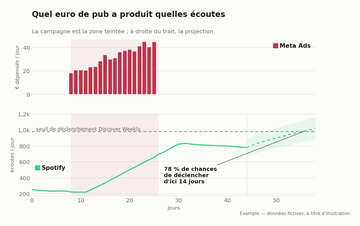
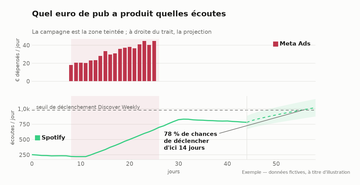
R374 : mise en route — figures d'exemple génériques (vue d'ensemble + deux promesses de même hauteur), la même prédiction dans l'aperçu algo
V11 · V12 · V55 : un seul module (utils/example_figures.py) rend les PNG fictifs étiquetés
« Exemple » ; la figure Meta régénérée à la hauteur de la prédiction (655 contre 654 px).
Gardes : 3 images étiquetées sur un locataire vide, l'aperçu algo rend la même image,
rapport hauteur/largeur des deux promesses — mutés rouges (légende retirée, autre figure).

diff --git a/tests/test_the_welcome_figures_are_examples.py b/tests/test_the_welcome_figures_are_examples.py
@@ -1,0 +1,95 @@
+"""The welcome block's figures are generic examples, and the algo preview shows the same one (R374).
+
+Type: Guard
+Uses: src.dashboard.utils.example_figures, tests/render_harness.py (TENANT_SCRIPT)
+Depends on: live Postgres for the render tests (skipped without it)
+Persists in: a throwaway sandbox tenant, deleted after the module
+
+V11 · V12 · V55 (owner's screen review, 2026-10-05). R347 had removed the figures from
+« 1. streaMLytics en bref » because the first was drawn from the tenant's data. They come
+back GENERIC: an overview, then the two promises (algo prediction, campaign) side by side,
+same size, in that order — every one labelled « Exemple ». The algo preview, which had no
+chart, shows the SAME prediction figure rather than a second illustration.
+"""
+from __future__ import annotations
+
+import ast
+import os
+import uuid
+from pathlib import Path
+
+import pytest
+
+from tests.db_gate import db_ready
+from tests.render_harness import TENANT_SCRIPT
+
+_ROOT = Path(__file__).resolve().parents[1]
+_ONB = _ROOT / "src" / "dashboard" / "views" / "onboarding.py"
+
+
+def test_the_two_promises_are_generated_at_the_same_height() -> None:
+    from PIL import Image
+
+    from src.dashboard.utils.example_figures import EXAMPLES_DIR, PROMISES
+
+    ratios = [h / w for w, h in (Image.open(EXAMPLES_DIR / n).size for n in PROMISES)]
+    assert abs(ratios[0] - ratios[1]) < 0.01, (
+        f"the two promise figures sit side by side at different heights: {ratios} — "
+        "regenerate with `make example-charts`")
+
+
+def test_the_welcome_step_reads_no_tenant_series() -> None:
+    """A figure drawn from the tenant's data is what R347 removed; it must not return."""
+    names = {n.id for n in ast.walk(ast.parse(_ONB.read_text(encoding="utf-8")))
+             if isinstance(n, ast.Name)}
+    names |= {n.attr for n in ast.walk(ast.parse(_ONB.read_text(encoding="utf-8")))
+              if isinstance(n, ast.Attribute)}
+    back = names & {"render_platform_chart", "_tenant_series", "plotly_chart"}
+    assert not back, f"onboarding draws tenant data again: {back}"
+
+
+@pytest.fixture(scope="module")
+def empty_tenant():
+    from src.dashboard.utils import get_db_connection
+
+    db = get_db_connection()
+    slug = f"examples-{uuid.uuid4().hex[:10]}"
+    artist_id = db.fetch_query(
+        "INSERT INTO saas_artists (name, slug, tier, active, is_sandbox) "
+        "VALUES (%s, %s, 'free', TRUE, TRUE) RETURNING id", (f"Examples {slug}", slug),
+    )[0][0]
+    db.close()
+    yield artist_id
+    db = get_db_connection()
+    db.execute_query("DELETE FROM artist_credentials WHERE artist_id = %s", (artist_id,))
+    db.execute_query("DELETE FROM saas_artists WHERE id = %s", (artist_id,))
+    db.close()
+
+
+def _images(view: str, artist_id: int) -> list[tuple[str, str]]:
+    """(caption, media url) of every image the view renders. The url is a content hash."""
+    from streamlit.testing.v1 import AppTest
+
+    at = AppTest.from_string(TENANT_SCRIPT.format(root=os.getcwd(), view=view,
+                                                  artist_id=artist_id))
+    at.run(timeout=120)
+    assert not at.exception, f"{view} raised: {at.exception}"
+    return [(img.caption, img.url) for el in at.get("image") for img in el.proto.imgs]
+
+
+@pytest.mark.skipif(not db_ready(), reason="renders the welcome step against the live DB")
+def test_an_empty_tenant_sees_three_example_figures(empty_tenant) -> None:
+    images = _images("onboarding", empty_tenant)
+    assert len(images) == 3, f"expected overview + two promises, got {len(images)}"
+    unlabelled = [url for caption, url in images if "Exemple" not in caption]
+    assert not unlabelled, f"an example figure does not say it is one: {unlabelled}"
+    assert len({url for _c, url in images}) == 3, "the same figure is shown twice"
+
+
+@pytest.mark.skipif(not db_ready(), reason="renders the algo preview against the live DB")
+def test_the_algo_preview_shows_the_welcome_prediction_figure(empty_tenant) -> None:
+    welcome = _images("onboarding", empty_tenant)
+    preview = _images("algo_preview", empty_tenant)
+    assert len(preview) == 1 and "Exemple" in preview[0][0], preview
+    assert preview[0][1] == welcome[1][1], (
+        "the algo preview shows another figure than the welcome step's prediction")

diff --git a/tests/test_the_assistant_sidebar_carries_only_its_steps.py b/tests/test_the_assistant_sidebar_carries_only_its_steps.py
@@ -37,7 +37,7 @@ green again:
   `test_connect_my_sources_opens_step_two_and_stays` RED;
 * a plotly figure, then (separately) a numpy `st.image`, added under the « en bref »
   sentence: `test_the_brief_calls_no_figure` and
-  `test_the_welcome_step_draws_no_figure` RED for both. The image mutation first
+  `test_the_welcome_step_draws_no_figure` (now `..._draws_only_example_figures`, R374) RED for both. The image mutation first
   stayed GREEN on the rendered test — AppTest reports `image`, not `imgs`.
 """
 from __future__ import annotations
@@ -167,15 +167,25 @@ def test_the_brief_calls_no_figure() -> None:
              for s in _brief_statements() for c in ast.walk(s)
              if isinstance(c, ast.Call)}
     assert "markdown" in calls, "CONTROL: the « en bref » slice holds no call at all"
+    # R374 (V11 · V12): figures came back, but ONLY as labelled examples through the
+    # shared module — never a chart drawn here from the tenant's data.
+    assert "render_example" in calls, "CONTROL: the example figures left « en bref »"
     assert not calls & _FIGURE_CALLS, (
-        f"« streaMLytics en bref » draws {sorted(calls & _FIGURE_CALLS)} again — it "
-        "keeps one sentence, no figure, no legend (R347)")
+        f"« streaMLytics en bref » draws {sorted(calls & _FIGURE_CALLS)} itself — only "
+        "render_example may draw there, and only fictional data (R347, R374)")
 
 
 @requires_live_db()
-def test_the_welcome_step_draws_no_figure() -> None:
-    """The rendered side: whatever function draws it, step 1 shows no figure."""
+def test_the_welcome_step_draws_only_example_figures() -> None:
+    """The rendered side: whatever function draws it, step 1 shows only labelled examples.
+
+    R347 said « no figure »; R374 (owner, V11) brought back generic ones. The property
+    that survives both: nothing on step 1 is a chart of the tenant's data.
+    """
     at = _render("onboarding")
     assert at.session_state["_onboarding_step"] == 1, "CONTROL: not on the welcome step"
-    drawn = {kind: len(at.main.get(kind)) for kind in _FIGURES}
-    assert not any(drawn.values()), f"the welcome step draws figures: {drawn}"
+    drawn = {kind: len(at.main.get(kind)) for kind in _FIGURES if kind != "image"}
+    assert not any(drawn.values()), f"the welcome step draws charts: {drawn}"
+    captions = [img.caption for el in at.main.get("image") for img in el.proto.imgs]
+    assert captions and all("Exemple" in c for c in captions), (
+        f"an image on the welcome step is not labelled as an example: {captions}")

diff --git a/src/dashboard/utils/example_figures.py b/src/dashboard/utils/example_figures.py
@@ -1,0 +1,49 @@
+"""The example figures — one generic overview and the two promises, never tenant data.
+
+Type: Utility
+Uses: src/dashboard/assets/examples/*.png (built offline by `make example-charts`), i18n
+Triggers: views/onboarding.py (« 1. streaMLytics en bref »), views/algo_preview.py
+Persists in: nothing
+
+R374 (2026-10-05, owner's screen review V11, V12, V55). R347 had removed the welcome
+block's figures because the first one was drawn from the tenant's data — with its
+platform legend, its decision sentence and its period comparison. The owner wants a
+figure back, but a GENERIC one, always available: a new tenant has no data, and the
+figure must say what the tool does, not what it has collected so far.
+
+Each image carries « Exemple — données fictives » drawn into the pixels (see
+`tools/dev/make_example_charts.py::_example_badge`) and the caption repeats it, so a
+screenshot and a screen reader both say it. The two promise figures are generated at the
+same pixel height so they sit level side by side.
+
+ONE module so the algo preview shows the SAME prediction figure (V55: DW / RR / Radio had
+no chart) instead of a second illustration that would drift from the first.
+"""
+from __future__ import annotations
+
+from pathlib import Path
+
+import streamlit as st
+
+from src.dashboard.utils.i18n import t
+
+EXAMPLES_DIR = Path(__file__).resolve().parents[1] / "assets" / "examples"
+
+OVERVIEW = "dashboard-global.png"
+ALGO_PREDICTION = "prediction-discover-weekly.png"
+CAMPAIGN = "meta-x-s4a.png"
+PROMISES = (ALGO_PREDICTION, CAMPAIGN)   # the order the owner asked for (V12)
+
+
+def example_caption() -> str:
+    return t("charts.example_caption", "Exemple — données fictives, à titre d'illustration")
+
+
+def render_example(name: str) -> None:
+    """Show one prebuilt example figure at the width of its container.
+
+    Missing, it renders nothing: the sentence beside it already states the promise.
+    """
+    path = EXAMPLES_DIR / name
+    if path.exists():
+        st.image(str(path), caption=example_caption(), width="stretch")

diff --git a/src/dashboard/views/onboarding.py b/src/dashboard/views/onboarding.py
@@ -19,6 +19,7 @@ from src.database.stripe_schema import PLAN_FEATURES
 from src.dashboard.utils.status_matrix import render_status_matrix
 from src.dashboard.utils.navigation import goto
 from src.dashboard.utils.date_format import format_date
+from src.dashboard.utils.example_figures import OVERVIEW, PROMISES, render_example
 
 
 # Platforms and which plan they require — all platform connectors are Free-tier.
@@ -160,10 +161,24 @@ def _step_welcome(plan: str, artist_id: int, db) -> None:
     # même endroit, récupérées chaque jour automatiquement — pas de blabla inutile ».
     # Les chiffres de l'artiste vivent sur l'accueil ; l'offre, juste en dessous, dit
     # ce que Premium prédit.
+    #
+    # R374 (2026-10-05, V11 · V12) : les figures reviennent, mais GÉNÉRIQUES — jamais
+    # tirées des données du locataire, qui n'en a pas le premier jour. Une vue d'ensemble
+    # sous la phrase, puis les deux promesses côte à côte, même hauteur, dans l'ordre :
+    # prédiction des algos, puis campagnes. Chaque image porte « Exemple ».
     st.markdown("### " + t("onboarding.b1_title", "1. streaMLytics en bref"))
     st.markdown(t("onboarding.brief_1",
                   "**Toutes tes données au même endroit, récupérées chaque jour, "
                   "automatiquement.**"))
+    render_example(OVERVIEW)
+    for col, name, line in zip(st.columns(2), PROMISES, (
+            t("onboarding.promise_algo",
+              "**Prédire Discover Weekly, Release Radar et Radio**"),
+            t("onboarding.promise_campaign",
+              "**Savoir quel euro de pub a produit quelles écoutes**"))):
+        with col:
+            st.markdown(line)
+            render_example(name)
     st.markdown("---")
 
     st.markdown("### " + t("onboarding.b2_title",

diff --git a/src/dashboard/views/algo_preview.py b/src/dashboard/views/algo_preview.py
@@ -1,7 +1,7 @@
 """Aperçu : déclencher les algos — ce que Road to Algo fait, pour ta dernière sortie. GRATUIT.
 
 Type: Feature
-Uses: view_session, algo_preview_data (load_ml_pred, proba_affichable, cout_par_stream,
+Uses: view_session, example_figures (ALGO_PREDICTION), algo_preview_data (load_ml_pred, proba_affichable, cout_par_stream,
       budget_pour_streams), algo_knowledge (split_coach_actions), artist_cashflow
       (trigger_value, track_stream_rate), plan_gate.bouton_vers, i18n
 Depends on: ml_song_predictions, v_meta_daily, v_s4a_song_daily
@@ -34,6 +34,7 @@ from src.dashboard.utils import view_session
 from src.dashboard.utils.algo_knowledge import split_coach_actions
 from src.dashboard.utils.algo_preview_data import (
     budget_pour_streams, cout_par_stream, load_ml_pred, proba_affichable)
+from src.dashboard.utils.example_figures import ALGO_PREDICTION, render_example
 from src.dashboard.utils.i18n import t
 from src.dashboard.utils.plan_gate import bouton_vers
 
@@ -99,6 +100,10 @@ def _worth(db, artist_id, song) -> dict[str, float]:
 def show() -> None:
     with view_session() as (db, artist_id):
         st.subheader(t("algo_preview.title", "Aperçu : déclencher les algos Spotify"))
+        # R374 (V55) : la page n'avait aucun graphique. La même figure d'exemple que la
+        # mise en route, étiquetée comme telle — affichée avant l'état vide aussi, qui
+        # est le cas le plus fréquent tant que l'activation n'est pas réglée.
+        render_example(ALGO_PREDICTION)
         song = _latest_scored_song(db, artist_id) if artist_id else None
         if song is None:
             st.info(t("trigger_algo.cat.empty",

diff --git a/tests/test_the_setup_assistant_is_two_steps_and_nothing_else.py b/tests/test_the_setup_assistant_is_two_steps_and_nothing_else.py
@@ -101,6 +101,8 @@ def _strings_and_names(path: Path) -> set[str]:
 
 def test_the_welcome_block_is_one_sentence() -> None:
     seen = _strings_and_names(ONB)
+    # R374 brought the figures back as GENERIC examples (shared module, no tenant data —
+    # tests/test_the_welcome_figures_are_examples.py); the long filler sentences stay out.
     back = {"onboarding.brief_2", "onboarding.brief_3", "_example_chart"} & seen
     assert not back, f"{back} is back in the welcome step (R347: no filler)"
     assert "onboarding.brief_1" in seen, "the one sentence that stays is gone too"

diff --git a/src/dashboard/utils/i18n_catalog/onboarding.py b/src/dashboard/utils/i18n_catalog/onboarding.py
@@ -33,6 +33,8 @@ EN = {
     "onboarding.b1_title": "1. streaMLytics in brief",
     "onboarding.brief_1": "**All your data in one place, pulled every day, "
                           "automatically.**",
+    "onboarding.promise_algo": "**Predict Discover Weekly, Release Radar and Radio**",
+    "onboarding.promise_campaign": "**See which ad euro produced which streams**",
     "onboarding.step1": "1. Welcome & pick",
     "onboarding.step2": "2. Where you stand",
     "onboarding.b0_title": "0. Your language",

diff --git a/src/dashboard/utils/i18n_catalog/charts.py b/src/dashboard/utils/i18n_catalog/charts.py
@@ -10,5 +10,6 @@ EN = {
     "charts.gloss.pi": "PI = Spotify popularity index (0 to 100)",
     "charts.gloss.ltv": "LTV = what a subscriber brings over the whole subscription",
     "charts.gloss.mrr": "MRR = monthly recurring subscription revenue",
+    "charts.example_caption": "Example — made-up data, for illustration only",
     "charts.gloss.shap": "SHAP = each variable's share in the model's prediction",
 }

diff --git a/tools/dev/make_example_charts.py b/tools/dev/make_example_charts.py
@@ -282,7 +282,7 @@ def meta_x_s4a() -> Path:
     forecast = streams[-1] + (trigger_level * 1.04 - streams[-1]) * reach ** 0.8
 
     fig, (ax1, ax2) = plt.subplots(
-        2, 1, figsize=(9, 5.0), sharex=True,
+        2, 1, figsize=(9, 3.85), sharex=True,
         gridspec_kw={"height_ratios": [1, 1.5], "hspace": 0.28})
 
     ax1.bar(days, spend, color=ORANGE, width=0.75)
